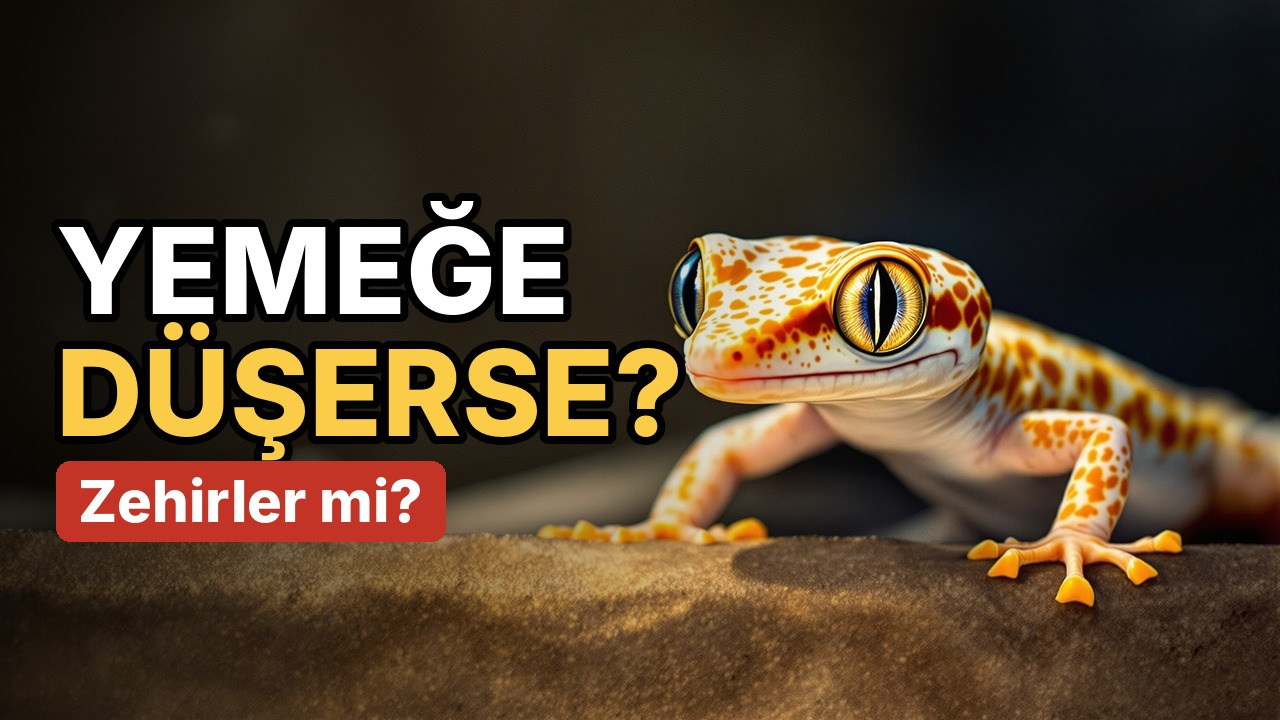
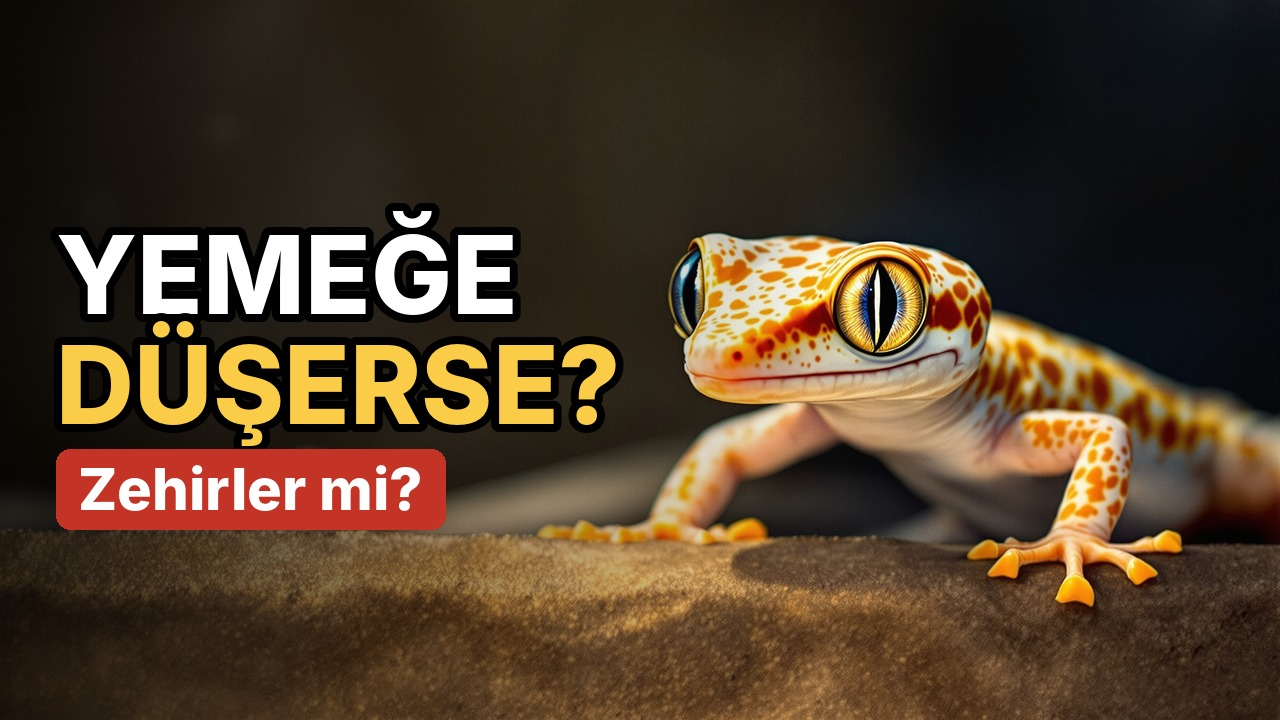
Avludaki Komşular: 2. video (ev kertenkelesi) bütün testlerden geçti; kapak yazısı gözle çakışmasın
Claude-Session: https://claude.ai/code/session_01BaFTGLb3DUQPcLQVA6aDtg

Changed region(s): [[0.0312, 0.2444, 0.5312, 0.7639]]

diff --git a/hayvan-kanali/video.py b/hayvan-kanali/video.py
@@ -360,7 +360,7 @@ def kapak(sahne: Sahne, yol: pathlib.Path):
     kare.paste(golge, (0, 0), golge)
     ciz = ImageDraw.Draw(kare)
     buyuk = ImageFont.truetype(YAZI_KALIN, 150)
-    while max(buyuk.getlength(s) for s in k["buyuk"]) > 640 and buyuk.size > 80:
+    while max(buyuk.getlength(s) for s in k["buyuk"]) > k.get("genislik", 580) and buyuk.size > 80:
         buyuk = ImageFont.truetype(YAZI_KALIN, buyuk.size - 6)
     kucuk = ImageFont.truetype(YAZI_KALIN, 58)
     renkler = [(255, 255, 255), (250, 204, 72)]
